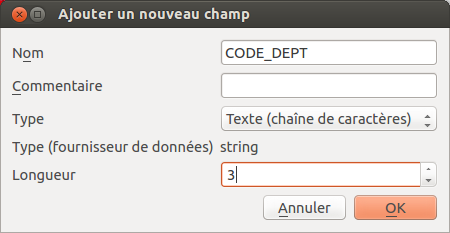
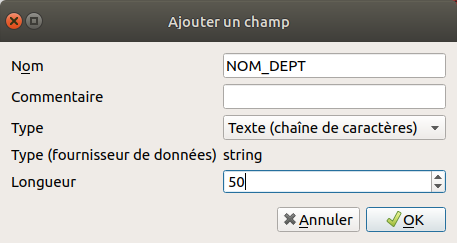
retours Delphine suite

diff --git a/07_01_creation_suppression.php b/07_01_creation_suppression.php
@@ -18,7 +18,8 @@
 					<li><a href="#VII12">Créer et supprimer un champ à partir de la table attributaire</a>
 					   <ul class="listesoustitres">
 							<li><a href="#VII12a">Créer un champ</a></li>
-							<li><a href="#VII12b">Supprimer un champ existant</a></li>
+							<li><a href="#VII12b">Modifier les valeurs d'un champ manuellement</a></li>
+							<li><a href="#VII12c">Supprimer un champ existant</a></li>
 						</ul>
 					</li>
 					<li><a href="#VII13">Pour aller plus loin : refactoriser les champs</a>
@@ -51,7 +52,7 @@
 			
 			    <h4><a class="titre" id="VII12a">Créer un champ</a></h4>
 			
-    				<p>Nous allons ajouter deux champs à la couche <em class="data">communes_Bretagne_calcul</em>, <b>CODE_DEPT</b> et <b>CODE_REG</b>, destinés à contenir par la suite le code de département et le code de région.</p>
+    				<p>Nous allons ajouter un champs à la couche <em class="data">communes_Bretagne_calcul</em>, nommé <b>NOM_DEPT</b>, destiné à contenir le nom du département de la commune.</p>
     				
     				<div class="manip">
     					<p>Ouvrez la table attributaire de la couche <em class="data">communes_Bretagne_calcul</em>. <a href="05_02_points.php#V21">Passez en mode édition</a> pour cette couche.</p>
@@ -66,10 +67,10 @@
     						</a>
     					</figure>
     					<ul>
-    						<li class="espace"><b>Nom :</b> Tapez <b>CODE_DEPT</b></li>
+    						<li class="espace"><b>Nom :</b> Tapez <b>NOM_DEPT</b></li>
     						<li class="espace"><b>Commentaire :</b> ce champ peut contenir un commentaire, laissez-le vide</li>
-    						<li class="espace"><b>Type :</b> ce champ peut contenir les valeurs suivantes : texte, nombre entier, nombre décimal et date. Choisissez texte (on pourrait aussi choisir le type nombre entier, mais texte est souvent préférable pour les identifiants)</li>
-    						<li class="espace"><b>Longueur :</b> Dans le cas d'un champ type texte, cette valeur représente le nombre maximum de caractères que pourra contenir le champ. Tapez 3, pour prévoir le cas des départements d'outre-mer.</li>
+    						<li class="espace"><b>Type :</b> ce champ peut contenir les valeurs suivantes : texte, nombre entier, nombre décimal et date. Choisissez texte puisque nous voulons y mettre les noms des départements</li>
+    						<li class="espace"><b>Longueur :</b> Dans le cas d'un champ type texte, cette valeur représente le nombre maximum de caractères que pourra contenir le champ. Tapez 50, ce qui devrait suffire.</li>
     					</ul>
     					<p>Cliquez sur <b>OK</b> ; le champ est ajouté à la table, rempli pour l'instant de valeurs nulles.</p>
     					<figure>
@@ -77,16 +78,19 @@
     							<img src="illustrations/tous/7_1_table_nouveau_champ.png" alt="table avec le champ CODE_DEPT vide" width="600" >
     						</a>
     					</figure>
-    					<p>Procédez de la même manière pour ajouter un champ <b>CODE_REG</b> :</p>
-    					<figure>
-    						<a href="illustrations/tous/7_1_ajout_fenetre_2.png" >
-    							<img src="illustrations/tous/7_1_ajout_fenetre_2.png" alt="fenêtre de création de colonne" width="390" >
-    						</a>
-    					</figure>
-    					<p>Quittez le mode édition en enregistrant les modifications. Ces champs seront remplis dans la partie <a href="07_02_calculer.php">Calcul de champ</a>.</p>
+    					<p>Quittez le mode édition en enregistrant les modifications.</p>
     				</div>
 			
-			     <h4><a class="titre" id="VII12b">Supprimer un champ existant</a></h4>
+			     <h4><a class="titre" id="VII12b">Modifier les valeurs d'un champ manuellement</a></h4>
+			     
+			         <p>Il est maintenant possible de taper du texte pour remplir le champ NOM_DEPT que nous venons de créer.</p>
+			         <div class="manip">
+			             <p>Passez à nouveau en mode édition pour la couche <em class="data">communes_Bretagne_calcul</em>.</p>
+			             <p>Ouvrez sa table attributaire si ce n'est pas déjà fait.</p>
+			         </div>
+			     
+			     
+			     <h4><a class="titre" id="VII12c">Supprimer un champ existant</a></h4>
 			
     				<p>Nous allons supprimer le champ INSEE_COM (ne vous inquiétez pas, nous recréerons un champ code INSEE à partir du code de département et de commune, dans la partie <a href="07_02_calculer.php">Calcul de champ</a>).</p>
     				

diff --git a/07_02_calculer.php b/07_02_calculer.php
@@ -118,7 +118,7 @@
 					</div>
 					
 					<p>Vous remarquerez qu'on peut lire 2 surfaces dans les résultats de l'identification : <b>la surface cartésienne, et la surface basée sur une ellipsoïde</b>. La première est basée sur des distances en ligne droite, qui ne prennent pas en compte la courbure de la Terre. La deuxième prend en compte la courbure de la Terre en se basant sur l'ellipsoïde indiquée.</p>
-					<p>Bien sûr, pour de faibles distances, les 2 résultats seront très proches.</p>
+					<p>Pour de faibles distances, les 2 résultats seront donc très proches, la différence augmentant avec la distance.</p>
 									
 				
 			
@@ -136,7 +136,7 @@
 					</div>
 					
 					<div class="manip">
-						<p>Si ce n'est pas déjà fait, ouvrez la table attributaire de la couche <em class="data">communes_Bretagne</em>. Ouvrez la calculatrice de champs :</p>
+						<p>Si ce n'est pas déjà fait, ouvrez la table attributaire de la couche  <em class="data"><a href="donnees/TutoQGIS_07_Champs.zip">communes_Bretagne_calcul</a></em>. Ouvrez la calculatrice de champs :</p>
 						<figure>
 							<a href="illustrations/tous/7_2_calc_densite.png" >
 								<img src="illustrations/tous/7_2_calc_densite.png" alt="Fenêtre de la calculatrice de champ, calcul de la densité" width="600" >
@@ -146,7 +146,7 @@
 							<li class="espace">Choisissez l'option <b>Créer un nouveau champ</b>, nommez-le <b>DENSITE</b>, type <b>Nombre décimal</b></li>
 							<li class="espace">Dans la liste des <b>fonctions</b>, rubrique <b>Champs et valeurs</b>, double-cliquez sur <b>POPULATION</b>, le diviseur <b>/</b> puis double-cliquez sur le champ <b>SURF_KM2</b></li>
 							<li class="espace">Au final, l'expression est <b> "POPULATION" / "SURF_KM2" </b></li>
-							<li class="espace">Cliquez sur <b>OK</b> : le champ densité est ajouté et calculé :</li>
+							<li class="espace">Cliquez sur <b>OK</b> : le champ densité est ajouté et calculé, en nombre d'habitants par km&#178; :</li>
 						</ul>
 						<figure>
 						  <a href="illustrations/tous/7_2_densite_table.png" >
@@ -157,7 +157,7 @@
 					
 				<h4><a class="titre" id="VII23b">Opérations sur du texte : extraction</a></h4>
 				
-					<p>La couche <em class="data">communesBretagne</em> comporte une colonne INSEE_COM avec le code INSEE des communes. Ce code INSEE est constitué du code du département (2 chiffres pour la Bretagne) et du code commune (3 chiffres).</p>
+					<p>La couche <em class="data"><a href="donnees/TutoQGIS_07_Champs.zip">communes_Bretagne_calcul</a></em> comporte une colonne INSEE_COM avec le code INSEE des communes. Ce code INSEE est constitué du code du département (2 chiffres pour la Bretagne) et du code commune (3 chiffres).</p>
 					<p>Le but est ici d'<b>extraire le code commune</b> du code INSEE, donc les 3 derniers chiffres de ce dernier. Par exemple, la commune de Dirinon a comme code INSEE 29045 : le nouveau champ CODE_COM aura la valeur 045 pour cette commune.</p>
 				
 					<div class="manip">
